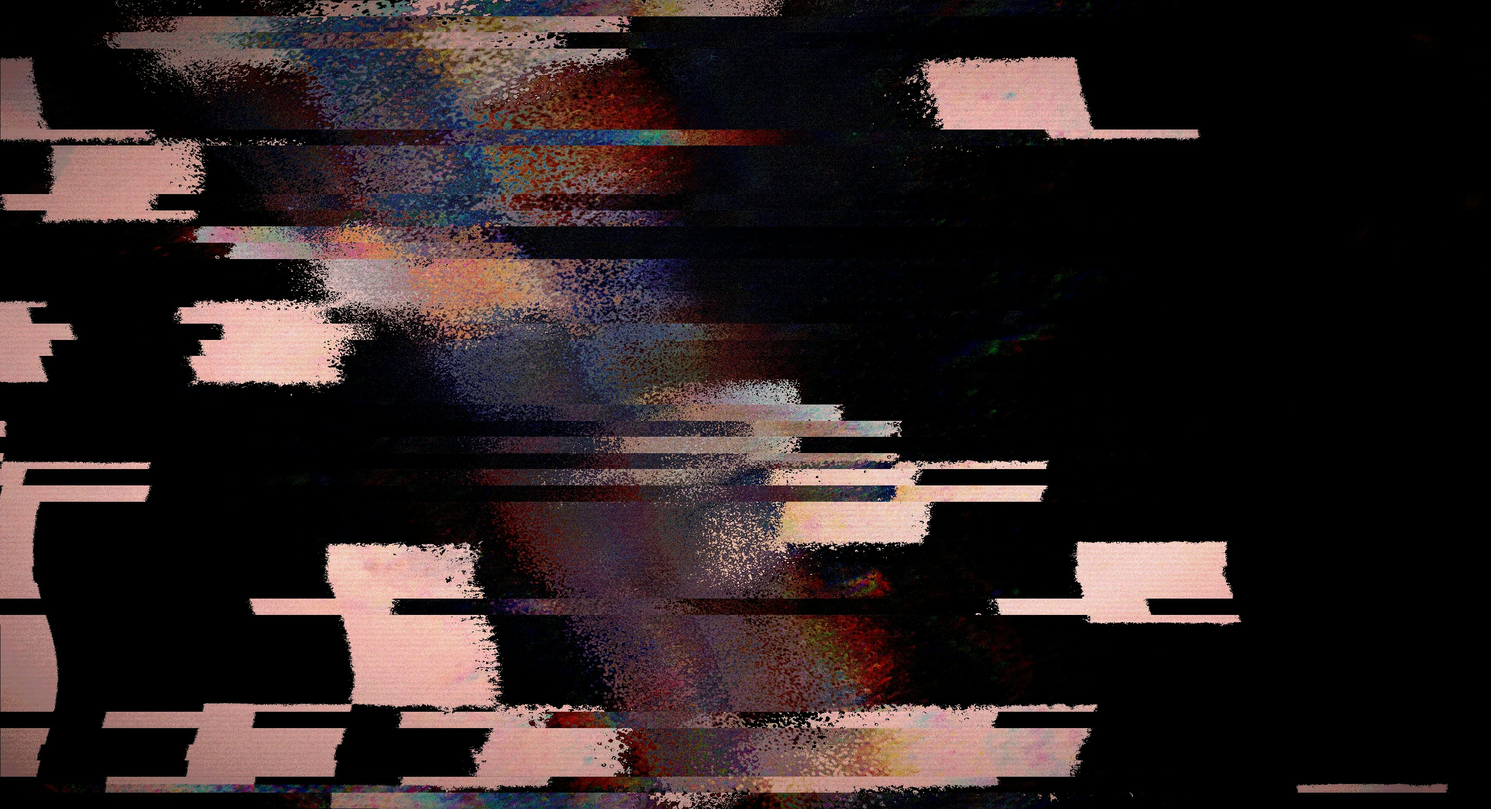
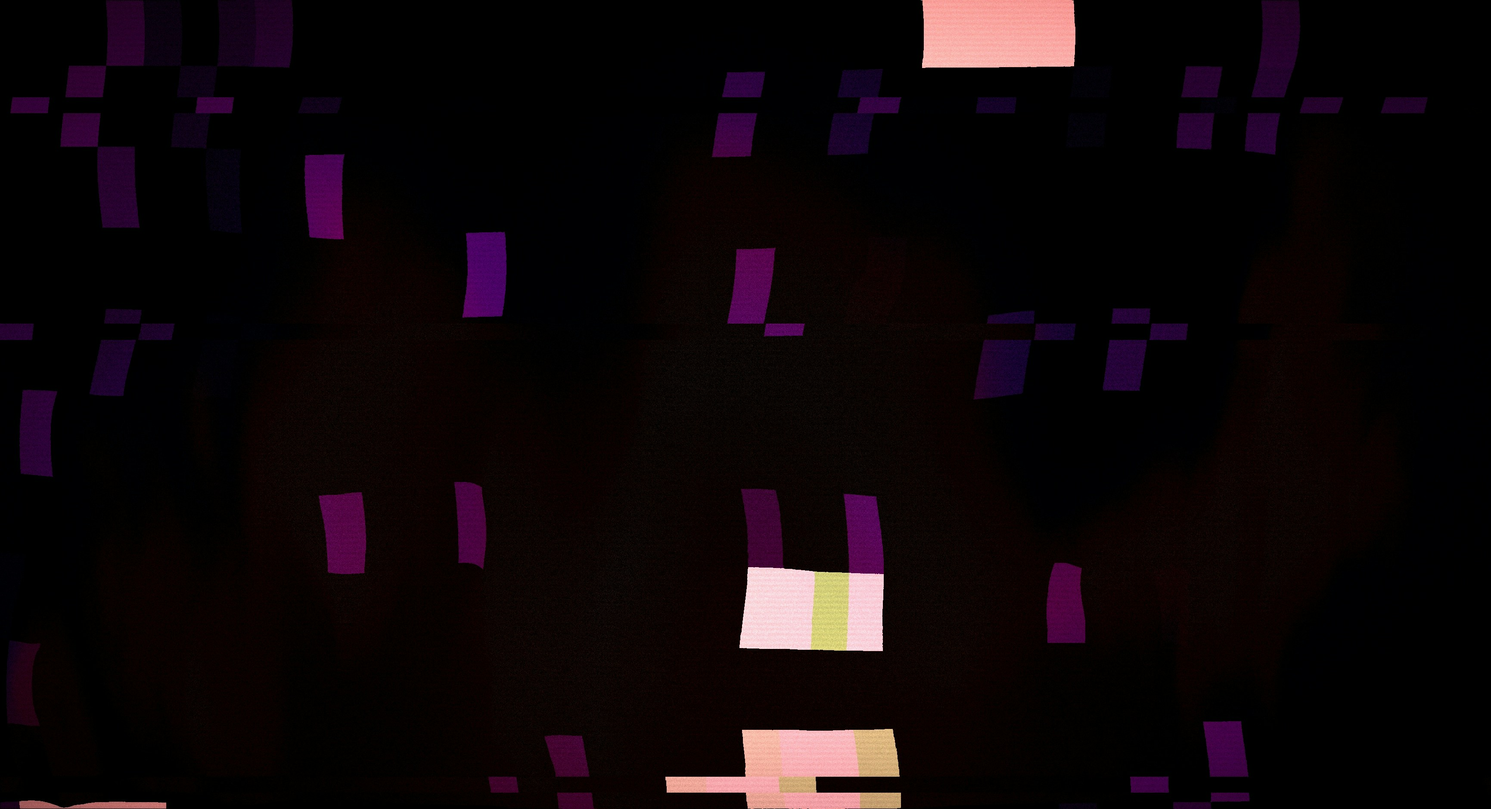
fix: hero background path relative to css dir, swap to darker glitch art

diff --git a/css/site.css b/css/site.css
@@ -38,7 +38,7 @@
   .burger{display:none;background:none;border:none;color:var(--ink);cursor:pointer;padding:.3rem}
   /* Hero */
   .hero{position:relative;min-height:92vh;display:grid;place-items:center;text-align:center;overflow:hidden;padding:8rem 1.5rem 6rem}
-  .hero-bg{position:absolute;inset:-12% 0;background:url("assets/hero-glitch.jpg") center/cover no-repeat}
+  .hero-bg{position:absolute;inset:-12% 0;background:url("../assets/hero-glitch.jpg") center/cover no-repeat}
   .hero::after{content:"";position:absolute;inset:0;background:linear-gradient(180deg,rgba(17,14,27,.55),rgba(17,14,27,.72) 55%,var(--bg) 100%)}
   .hero > .wrap{position:relative;z-index:2}
   .hero h1{font-size:clamp(2.5rem,6vw,4.3rem);line-height:1.08;max-width:17ch;margin:0 auto .9em}
